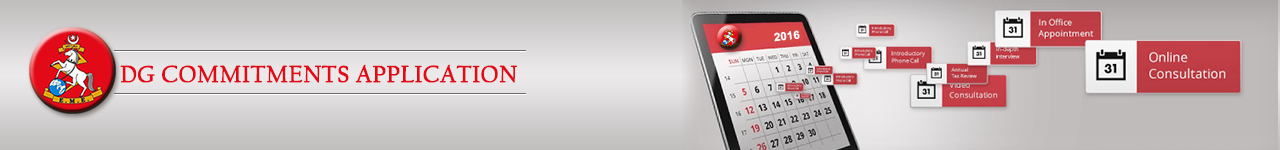
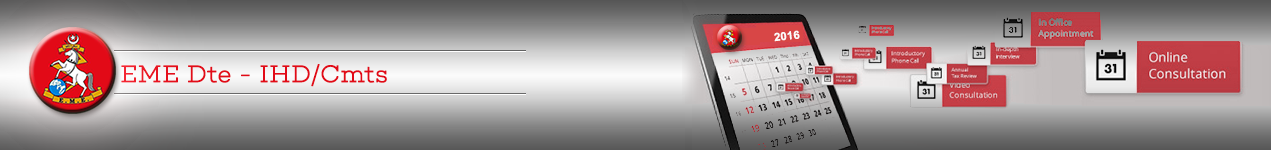
Adjusting display

diff --git a/plan/Planner/WebContent/resources/css/style.css b/plan/Planner/WebContent/resources/css/style.css
@@ -10,6 +10,23 @@
     background: none;
 }
 
+.banner_holderImage{
+    height: 100%;
+    position:relative;
+    background:   url(#{request.contextPath}/resources/images/banner3.png)no-repeat;
+    -webkit-background-size: 100%, auto;
+  	-moz-background-size: 100%, auto;
+  	-o-background-size: 100%, auto;
+  	background-size: 100%, auto;
+    background-position: center;
+    
+}
+img {
+    max-width: 100%;
+    height: auto;
+    width: auto\9; /* ie8 */
+}
+
 .btn{
 	
 }
@@ -36,6 +53,9 @@
 .blinking_red {
   color: red !important;
   animation: blinker 1.5s linear infinite;
+  
+    -webkit-transform: translate3d(0,0,0);
+
 }
 
 @keyframes blinker {  
@@ -46,13 +66,7 @@
     vertical-align: top;
 }
 
-.banner_holderImage{
-    height: 100%;
-    position:relative;
-    background:   url(#{request.contextPath}/resources/images/banner2.png)no-repeat;
-    background-size: cover;
-    background-position: center;
-}
+
 .labels {
      font-weight: bold;
      font-size: 12px;

diff --git a/plan/Planner/src/com/plan/utils/DateUtils.java b/plan/Planner/src/com/plan/utils/DateUtils.java
@@ -58,18 +58,6 @@ public class DateUtils {
         return isSameDay(date, Calendar.getInstance().getTime());
     }
     
-    
-    
-    /**
-     * <p>Checks if a calendar date is today.</p>
-     * @param cal  the calendar, not altered, not null
-     * @return true if cal date is today
-     * @throws IllegalArgumentException if the calendar is <code>null</code>
-     */
-    public static boolean isToday(Calendar cal) {
-        return isSameDay(cal, Calendar.getInstance());
-    }
-    
     /**
      * <p>Checks if the first date is before the second date ignoring time.</p>
      * @param date1 the first date, not altered, not null
